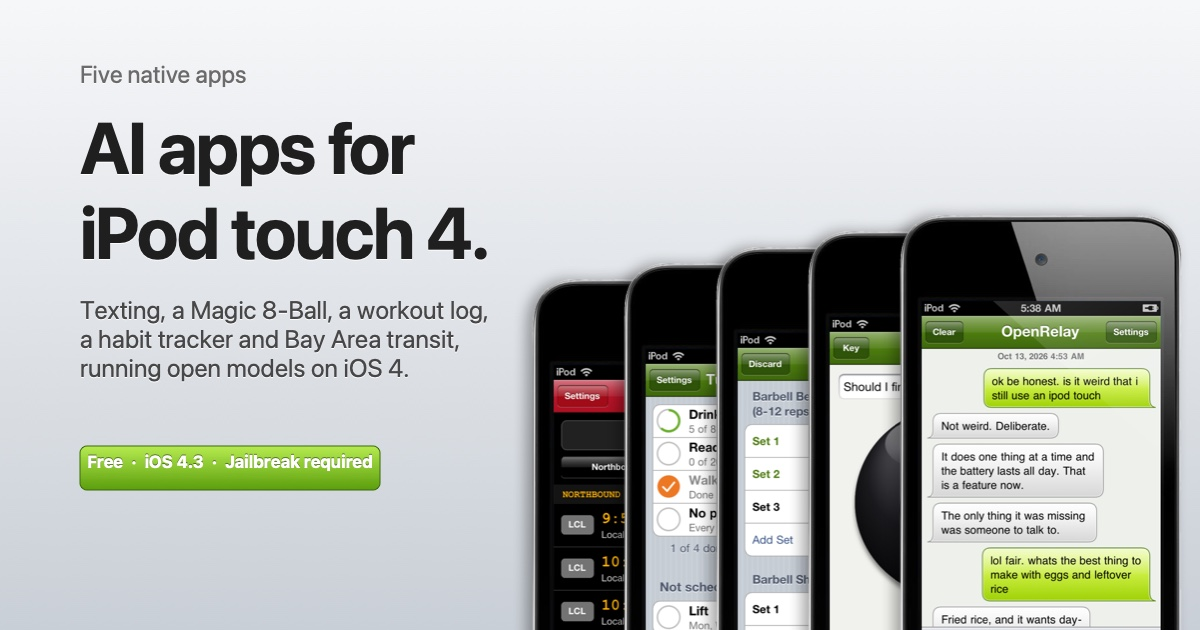
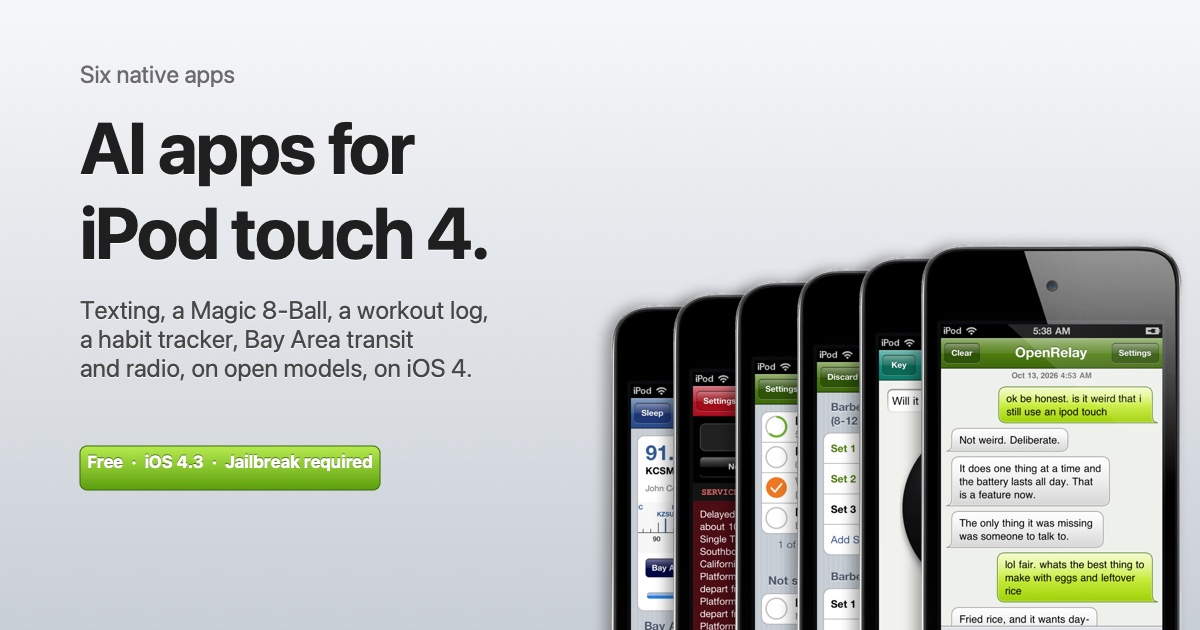
Site: Radio in the repo list, six-device social card
Claude-Session: https://claude.ai/code/session_01BivNT7AHmqnGRVDqSF16xf

Changed region(s): [[0.4317, 0.3317, 0.9867, 1.0], [0.0617, 0.5127, 0.4008, 0.6032], [0.0617, 0.0905, 0.2158, 0.1508]]

diff --git a/site/og.swift b/site/og.swift
@@ -5,11 +5,11 @@ let rep = NSBitmapImageRep(bitmapDataPlanes: nil, pixelsWide: Int(W), pixelsHigh
 NSGraphicsContext.saveGraphicsState(); NSGraphicsContext.current = NSGraphicsContext(bitmapImageRep: rep)
 NSGradient(starting: NSColor(deviceRed: 0.965, green: 0.969, blue: 0.976, alpha: 1), ending: NSColor(deviceRed: 0.788, green: 0.812, blue: 0.839, alpha: 1))!.draw(in: NSRect(x: 0, y: 0, width: W, height: H), angle: -90)
 // five devices fanned on the right, bleeding off the bottom like a 2010 hero
-let names = ["trainboard", "habitstoday", "setsworkout", "ball8", "bursts"]
+let names = ["radiotuner", "trainboard", "habitstoday", "setsworkout", "ball8", "bursts"]
 for (i, n) in names.enumerated() {
     let dev = NSImage(contentsOfFile: "img/\(n)-device.png")!
-    let dh: CGFloat = 540, dw = dev.size.width / dev.size.height * dh
-    let x = W - dw - 16 - CGFloat(4 - i) * 92, y: CGFloat = -120 - CGFloat(4 - i) * 16
+    let dh: CGFloat = 500, dw = dev.size.width / dev.size.height * dh
+    let x = W - dw - 16 - CGFloat(5 - i) * 62, y: CGFloat = -110 - CGFloat(5 - i) * 12
     let sh = NSShadow(); sh.shadowColor = NSColor(white: 0, alpha: 0.35); sh.shadowOffset = NSSize(width: -6, height: 0); sh.shadowBlurRadius = 14
     NSGraphicsContext.saveGraphicsState(); sh.set()
     dev.draw(in: NSRect(x: x, y: y, width: dw, height: dh), from: .zero, operation: .sourceOver, fraction: 1)
@@ -22,9 +22,9 @@ func text(_ s: String, _ size: CGFloat, _ bold: Bool, _ color: NSColor, _ x: CGF
     let a: [NSAttributedString.Key: Any] = [.font: f, .foregroundColor: color, .paragraphStyle: p, .shadow: sh, .kern: bold ? -1.5 : 0]
     (s as NSString).draw(in: NSRect(x: x, y: y, width: maxW, height: h), withAttributes: a)
 }
-text("Five native apps", 24, false, NSColor(white: 0.42, alpha: 1), 80, 530, 600, 40)
+text("Six native apps", 24, false, NSColor(white: 0.42, alpha: 1), 80, 530, 600, 40)
 text("AI apps for\niPod touch 4.", 72, true, NSColor(white: 0.12, alpha: 1), 80, 350, 520, 176)
-text("Texting, a Magic 8-Ball, a workout log,\na habit tracker and Bay Area transit,\nrunning open models on iOS 4.", 25, false, NSColor(white: 0.28, alpha: 1), 80, 215, 480, 120)
+text("Texting, a Magic 8-Ball, a workout log,\na habit tracker, Bay Area transit\nand radio, on open models, on iOS 4.", 25, false, NSColor(white: 0.28, alpha: 1), 80, 215, 480, 120)
 // badge
 let badge = NSBezierPath(roundedRect: NSRect(x: 80, y: 140, width: 300, height: 44), xRadius: 7, yRadius: 7)
 NSGradient(starting: NSColor(deviceRed: 0.71, green: 0.92, blue: 0.31, alpha: 1), ending: NSColor(deviceRed: 0.36, green: 0.62, blue: 0.05, alpha: 1))!.draw(in: badge, angle: -90)

diff --git a/site/index.html b/site/index.html
@@ -28,6 +28,6 @@
     <a class="card" href="nexttrain.html"><img src="img/trainboard-device.png" alt="Next Train"><h3>Next Train</h3><p>Caltrain, BART and Muni. Live.</p><span class="more">Learn more &rsaquo;</span></a>
     <a class="card" href="radio.html"><img src="img/radiotuner-device.png" alt="Radio"><h3>Radio</h3><p>Forty stations. A real dial.</p><span class="more">Learn more &rsaquo;</span></a>
   </div>
-  <div class="buy"><a class="btn" href="install.html">How to install</a><small>Jailbroken iPod touch 4 or iPhone 4 on iOS 4.3 and up. Free, and open source: <a href="https://github.com/mannanshukla/openrelay-ios4">OpenRelay</a>, <a href="https://github.com/mannanshukla/layaball-ios4">Laya Ball</a>, <a href="https://github.com/mannanshukla/sets-ios4">Sets</a>, <a href="https://github.com/mannanshukla/habits-ios4">Habits</a>, <a href="https://github.com/mannanshukla/nexttrain-ios4">Next Train</a>.</small></div>
+  <div class="buy"><a class="btn" href="install.html">How to install</a><small>Jailbroken iPod touch 4 or iPhone 4 on iOS 4.3 and up. Free, and open source: <a href="https://github.com/mannanshukla/openrelay-ios4">OpenRelay</a>, <a href="https://github.com/mannanshukla/layaball-ios4">Laya Ball</a>, <a href="https://github.com/mannanshukla/sets-ios4">Sets</a>, <a href="https://github.com/mannanshukla/habits-ios4">Habits</a>, <a href="https://github.com/mannanshukla/nexttrain-ios4">Next Train</a>, <a href="https://github.com/mannanshukla/radio-ios4">Radio</a>.</small></div>
 </div>
 <footer>Independent projects, not affiliated with OpenRelay Inc. or Apple Inc. iPod and iPod touch are trademarks of Apple Inc.</footer></body></html>
